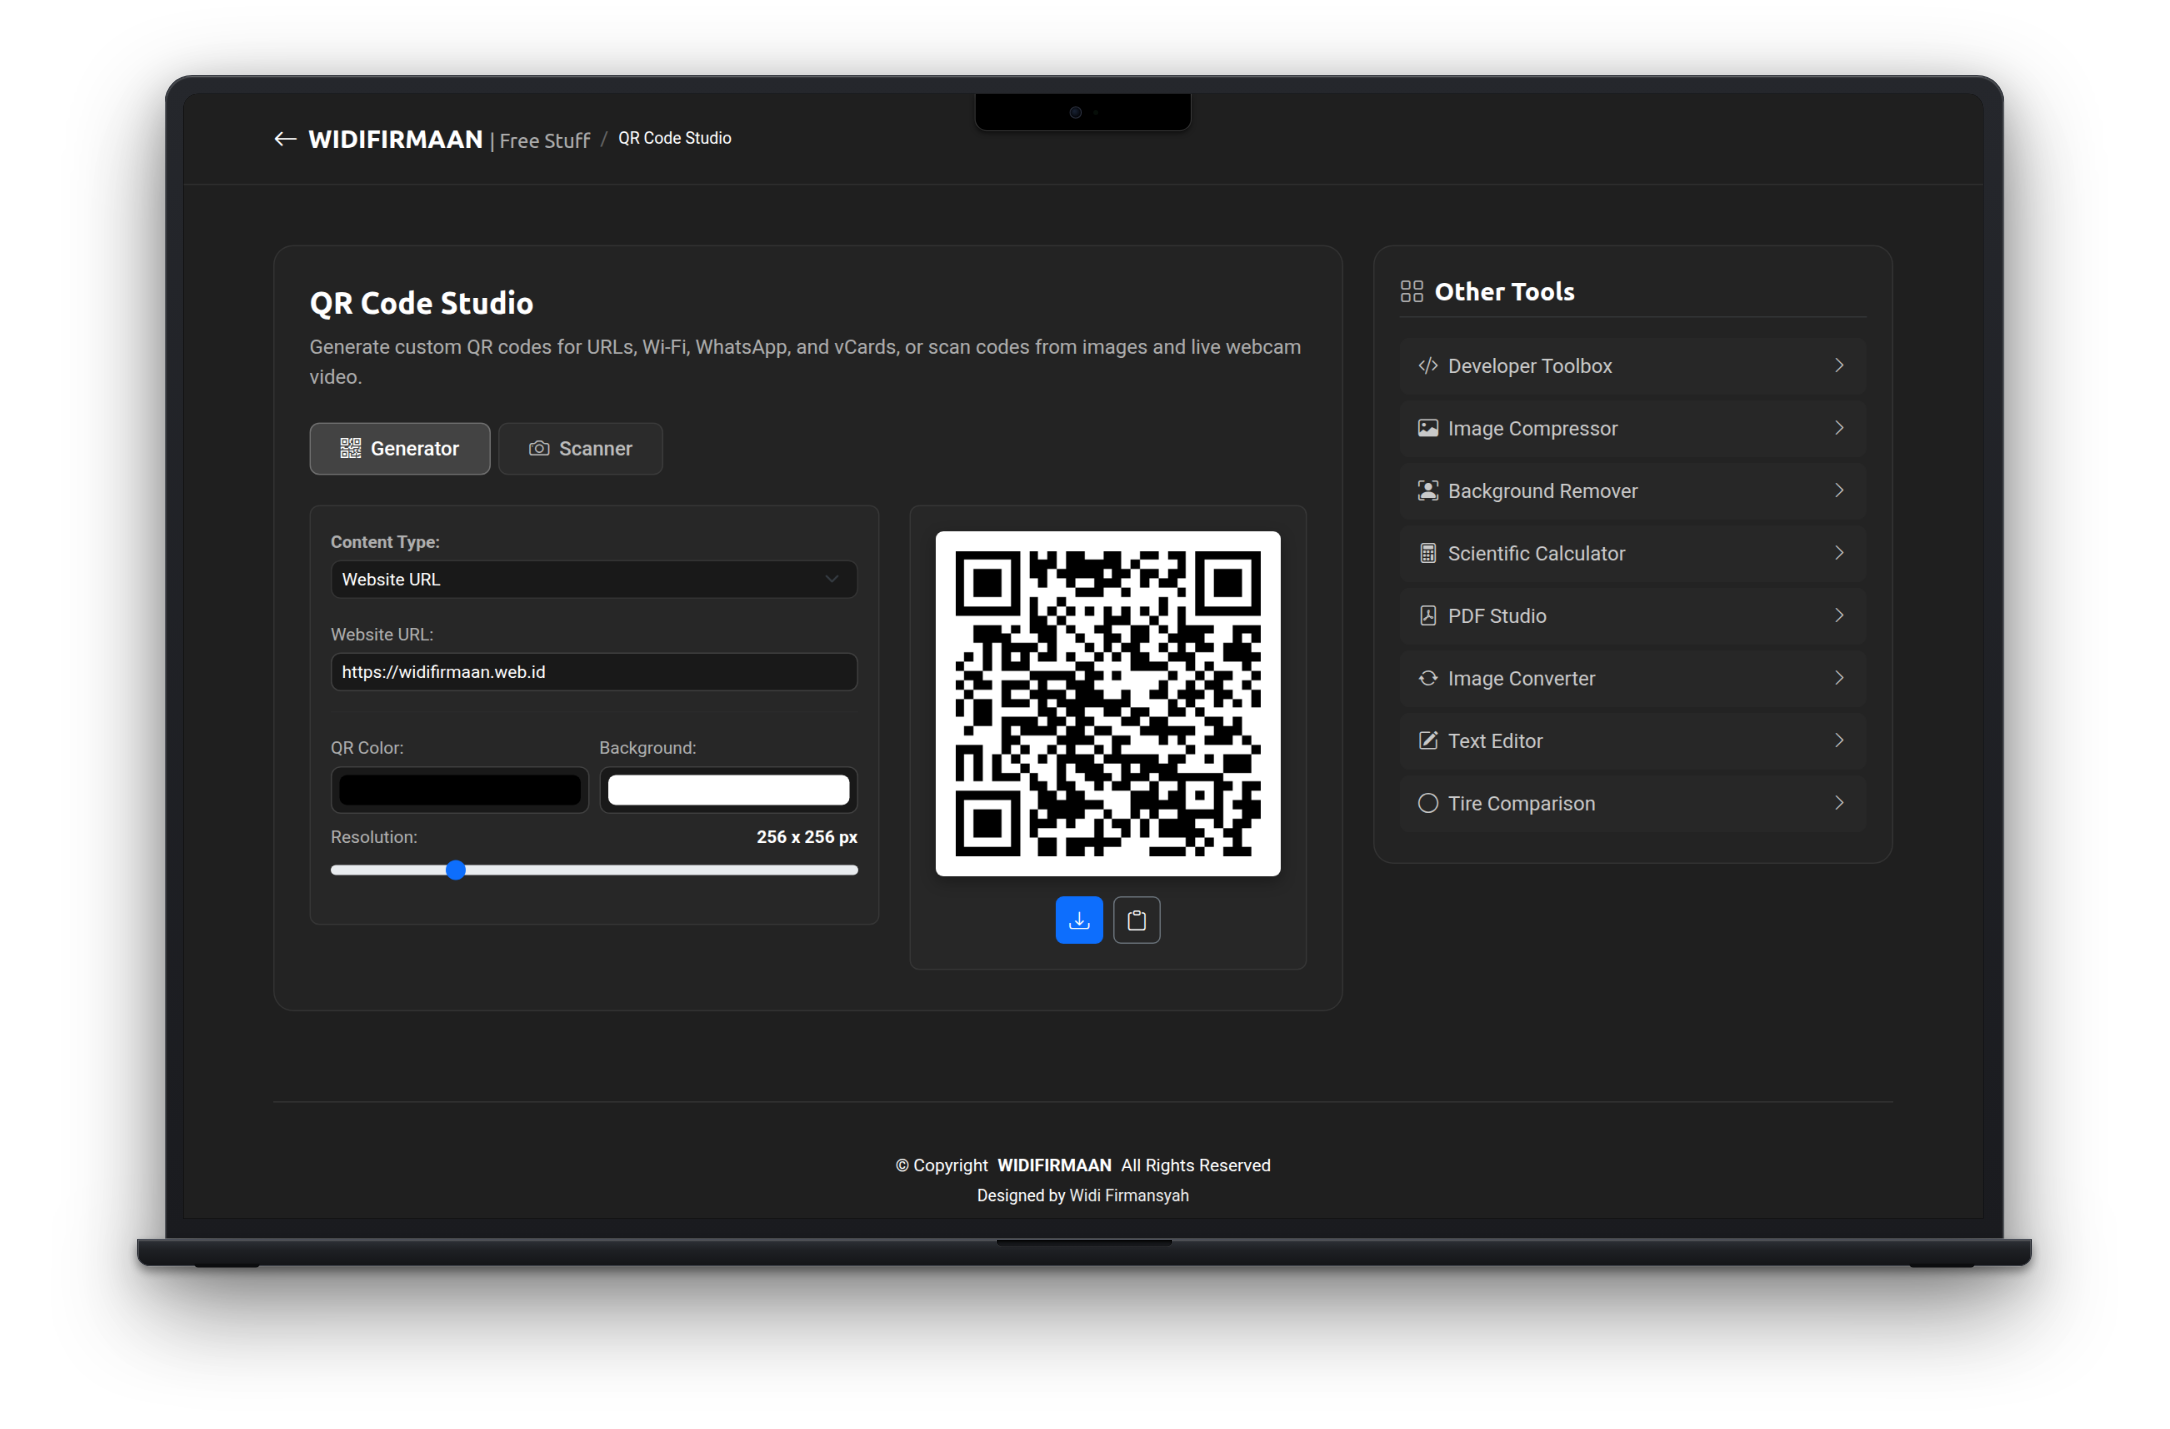
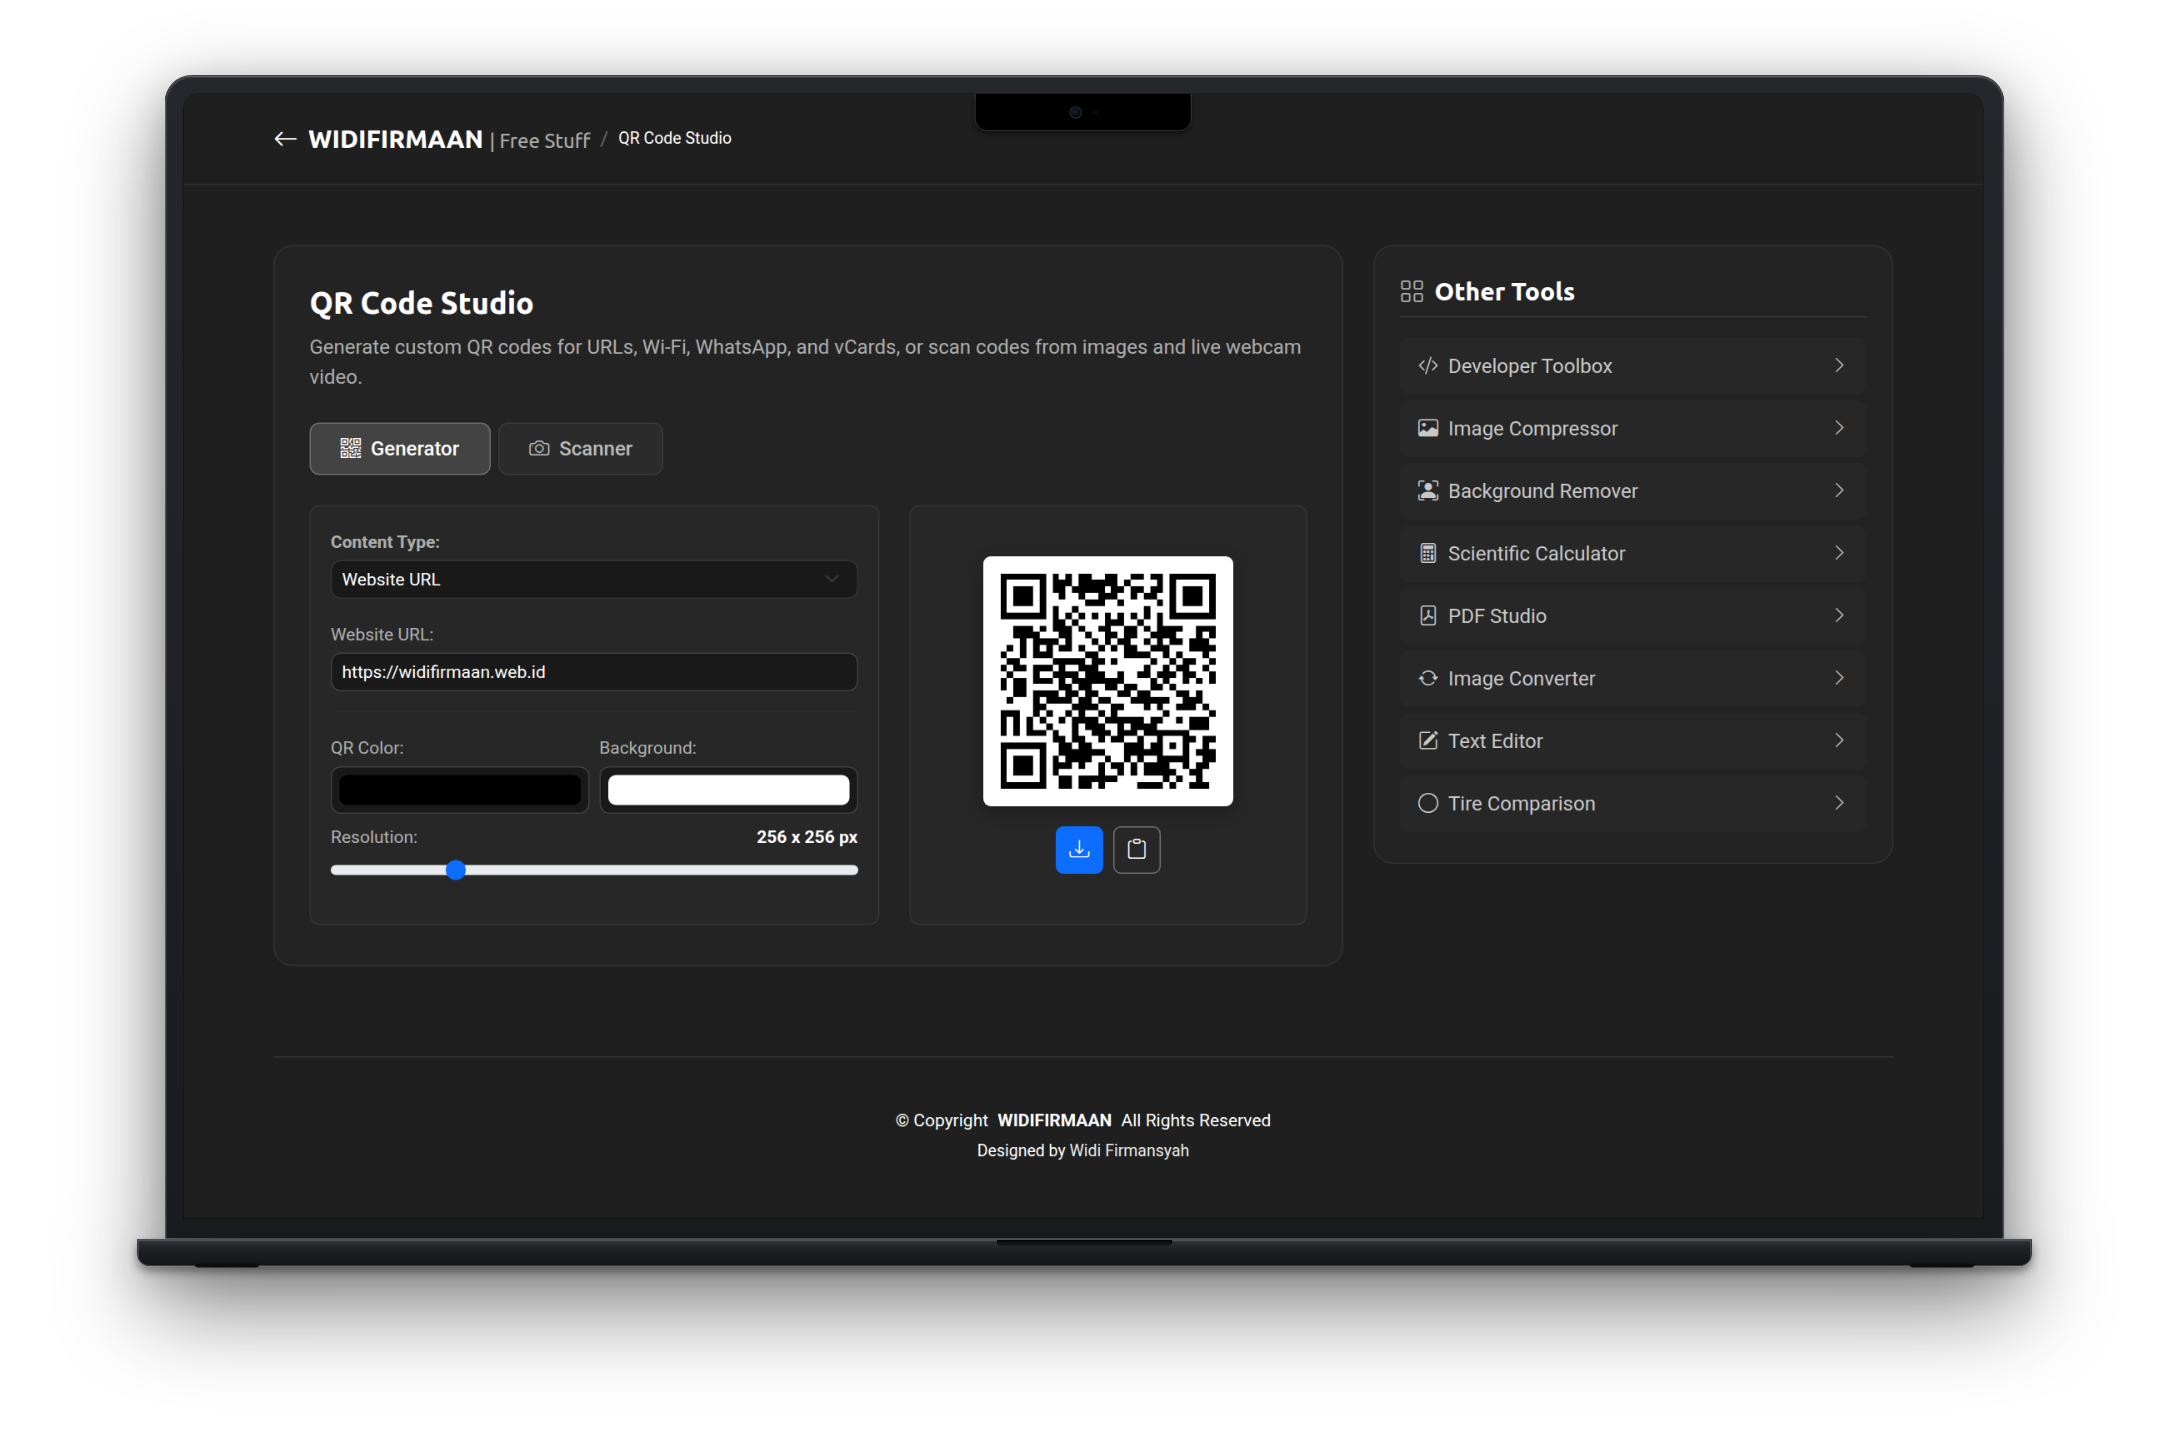
fix(qr-code): constrain preview dimensions and position download & copy buttons side-by-side

Changed region(s): [[0.4323, 0.3695, 0.6175, 0.6774], [0.4014, 0.7698, 0.5866, 0.8621]]

diff --git a/tools/qr-code.html b/tools/qr-code.html
@@ -69,7 +69,7 @@
                 <div class="tab-pane fade show active" id="generate-pane" role="tabpanel">
                   <div class="row g-4">
                     <div class="col-md-7">
-                      <div class="tool-panel">
+                      <div class="tool-panel h-100">
                         <div class="mb-3">
                           <label class="form-label text-secondary small fw-semibold mb-1">Content Type:</label>
                           <select id="qrType" class="form-select form-select-sm">
@@ -159,11 +159,11 @@
 
                     <!-- Right: Preview & Download -->
                     <div class="col-md-5">
-                      <div class="qr-preview-wrapper">
+                      <div class="tool-panel qr-preview-wrapper h-100">
                         <div class="qr-white-frame mb-3">
                           <div id="qrcodeContainer"></div>
                         </div>
-                        <div class="d-flex justify-content-center align-items-center gap-2">
+                        <div class="d-flex justify-content-center align-items-center gap-2 flex-nowrap">
                           <button type="button" id="btnDownloadPng" class="btn btn-primary btn-icon" title="Download PNG" aria-label="Download PNG">
                             <i class="bi bi-download"></i>
                           </button>
@@ -180,7 +180,7 @@
                 <div class="tab-pane fade" id="scan-pane" role="tabpanel">
                   <div class="row g-4">
                     <div class="col-md-6">
-                      <div class="p-3 rounded border border-secondary border-opacity-25 h-100 tool-panel">
+                      <div class="tool-panel h-100">
                         <h6 class="fw-bold text-white mb-3">Scan Source</h6>
 
                         <div id="scannerDropzone" class="tool-dropzone mb-3" onclick="document.getElementById('fileQrScan').click()">
@@ -206,7 +206,7 @@
                     </div>
 
                     <div class="col-md-6">
-                      <div class="p-3 rounded border border-secondary border-opacity-25 h-100 tool-panel">
+                      <div class="tool-panel h-100">
                         <h6 class="fw-bold text-white mb-3">Decoded Result</h6>
                         <div id="scanEmptyNotice" class="text-center text-secondary py-5">
                           <i class="bi bi-qr-code-scan fs-1 d-block mb-2 text-muted"></i>

diff --git a/assets/css/main.css b/assets/css/main.css
@@ -3258,24 +3258,46 @@ textarea:-ms-input-placeholder,
   background: rgba(255, 255, 255, 0.02);
   border: 1px solid rgba(255, 255, 255, 0.08);
   border-radius: var(--bs-border-radius-lg, 0.5rem);
-  padding: 1.25rem;
+  padding: 1.5rem 1rem;
   display: flex;
   flex-direction: column;
   align-items: center;
   justify-content: center;
+  width: 100%;
+  box-sizing: border-box;
+  overflow: hidden;
 }
 .qr-white-frame {
   background: #ffffff;
-  padding: 1rem;
+  padding: 0.875rem;
   border-radius: var(--bs-border-radius, 0.375rem);
   box-shadow: 0 4px 12px rgba(0, 0, 0, 0.3);
-  display: inline-block;
-}
-.qr-white-frame canvas,
-.qr-white-frame img {
-  display: block;
+  display: flex;
+  align-items: center;
+  justify-content: center;
+  width: 200px;
+  height: 200px;
   max-width: 100%;
+  box-sizing: border-box;
+}
+#qrcodeContainer {
+  display: flex;
+  align-items: center;
+  justify-content: center;
+  width: 100%;
+  height: 100%;
+}
+#qrcodeContainer canvas,
+#qrcodeContainer img {
+  max-width: 100%;
+  max-height: 100%;
+  width: auto;
   height: auto;
+  object-fit: contain;
+}
+#qrcodeContainer canvas[style*="display: none"],
+#qrcodeContainer img[style*="display: none"] {
+  display: none !important;
 }
 
 /* Regex Visualizer */
